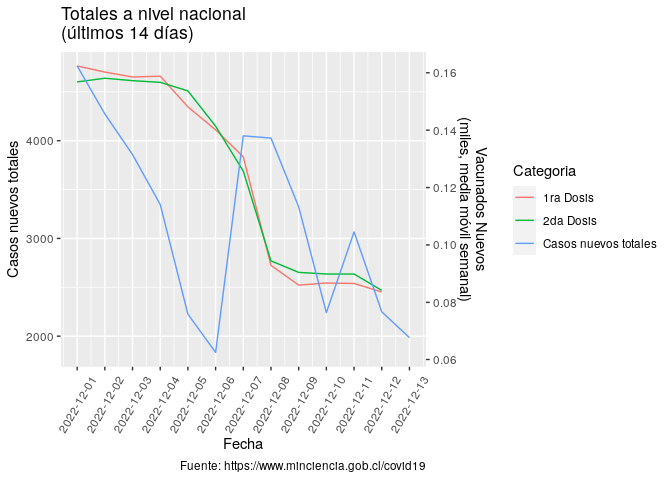
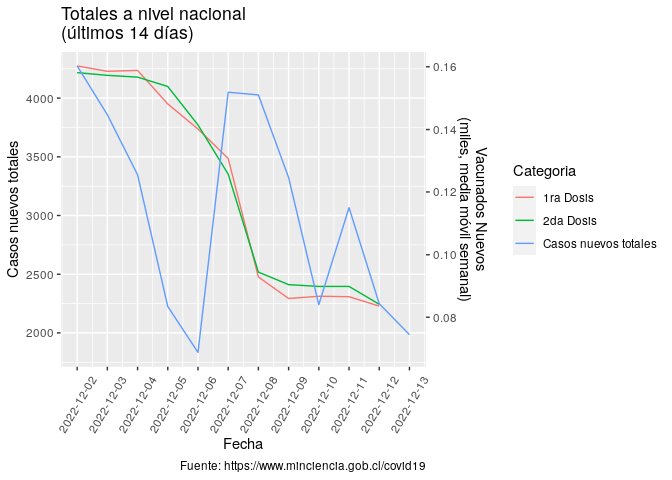
Re-build Rmarkdown files

diff --git a/README.md b/README.md
@@ -3,7 +3,7 @@
 
 Ejemplo de uso de total\_casos de COVID recopilados por el Ministerio de
 Ciencia de Chile <https://www.minciencia.gob.cl/covid19>. Última
-actualización: 2022-12-14
+actualización: 2022-12-15
 
 ## Visualización desde el comienzo de la pandemia
 
